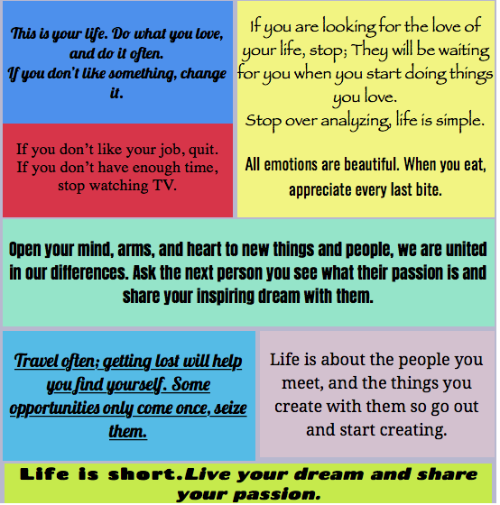
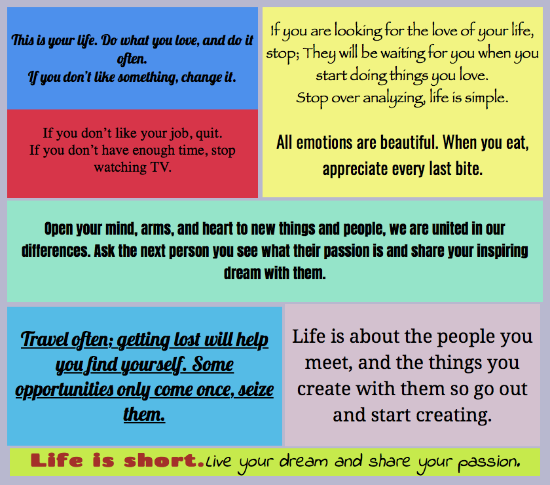
added css styles and pictures, completed the top bit of my page

diff --git a/index.html b/index.html
@@ -5,51 +5,64 @@
         <title>David Pinner | Web Developer Portfolio</title>
         <link rel="stylesheet" href="css/stylesheet.css">
         <link rel="stylesheet" href="css/normalize.css">
-        <link href="https://fonts.googleapis.com/css?family=Bitter|Uncial+Antiqua|Yanone+Kaffeesatz" rel="stylesheet">
+        <link href="https://fonts.googleapis.com/css?family=Dancing+Script:400,700|Exo:400,800|Orbitron:400,700|Permanent+Marker|Righteous" rel="stylesheet">
       </head>
       <body>
-        <div class="Container"> <!--main Div-->
-              <header>
-                <div class="main-heading">
-                      <h1>David Pinner</h1>
-                </div>
-                <div class="links">
-                      <nav>
-                            <ul>
-                                <li><a href="#about">About</a></li>
-                                <li><a href="#work">Work</a></li>
-                                <li><a href="#contact">Contact</a></li>
-                            </ul>
-                      </nav>
-                </div>
-              </header>
+        <div> <!--main Div-->
+            <header>
+                    <div class="links">
+                          <nav>
+                                <ul>
+                                    <li><a href="#portfolio">portfolio</a></li>
+                                    <li><a href="#work">Work</a></li>
+                                    <li><a href="#contact">Contact</a></li>
+                                </ul>
+                          </nav>
+                    </div>
+            </header>
+                    <div class="photo">
+<pre>
+  <span>Hi</span>,
+    I'm <strong>David Pinner</strong>,
+      A web Developer and designer with an eye for detail,
+        that loves clean & elegant code.</pre>
+                    </div>
               <main>
                     <article  class="about">
                           <div>
                                 <h2>A little Information about me.</h2>
-                                <p>I've made my home base in Lossiemouth, Moray, Scotland, with my two children and Wife. My journey into tech started with a desire to see how Web pages were built. As my intrest grew so did my thirst for knowledge, I was fascinated with how easily I could gain more insight and knowledge from round the Internet. I was hooked and wanted to learn how to build my own site to fit my own specific needs of myself and my family.</p>
+                                <p class="p1">I've made my home base in Lossiemouth, Moray, Scotland, with my two children and Wife. My journey into tech started with a desire to see how Web pages were built. As my intrest grew so did my thirst for knowledge, I was fascinated with how easily I could gain more insight and knowledge from round the Internet. I was hooked and wanted to learn how to build my own site to fit the specific needs of myself and my family.</p>
 
-                                <p>That curiosity then opened a door that could never be shut. When I learned how to build my first website, I realised I found something that gave me the freedom & versatility I was looking for in my work. Now I'm in the process of making a full switch to front-end development, where I can use my organisation skills and eye for detail to write clean, elegant code.</p>
+                                <p class="p2">That curiosity then opened a door that could never be shut. When I learned how to build my first website, I realised I found something that gave me the freedom & versatility I was looking for in my work. Now I'm in the process of making a full switch to front-end development, where I can use my organisation skills and eye for detail to write clean, elegant code.</p>
                           </div>
                     </article>
-                    <article class="portfolio">
+                    <article id="portfolio">
                             <div id="rogue">
-                                <img src="imgs/rogue.png" alt="rogue web site">
-                                  <h2>Rogue Pickings WebSite</h2>
-                                  <p>You can trust me to take a designer's PSD and quickly & accurately convert it into a webpage that is pixel-perfect match.</p>
+                                  <img src="imgs/rogue.png" alt="rogue web site">
+                                  <div class="text-rouge">
+                                        <h2>Rogue Pickings WebSite</h2>
+                                        <p>You can trust me to take a designer's PSD and quickly & accurately convert it into a webpage that is pixel-perfect match.</p>
+                                  </div>
+
                             </div>
                             <div id="holstee">
                                   <img src="imgs/holsten-project.png" alt="holsten manifesto">
-                                  <h2>Holstee Manifesto</h2>
-                                  <p>I pride myself on writing CSS that is easy to read and build on. I focus on keeping my CSS lean and fast to load, and I make it a habit to stay up to date on current best practices.</p>
+                                  <div class="text-holstee">
+                                        <h2>Holstee Manifesto</h2>
+                                        <p>I pride myself on writing CSS that is easy to read and build on. I focus on keeping my CSS lean and fast to load, and I make it a habit to stay up to date on current best practices.</p>
+                                  </div>
+
                             </div>
                             <div id="jubilee">
                                   <img src="imgs/jubilee.png" alt="jubilee austin" />
-                                  <h2>Jubilee Austen Project.</h2>
-                                  <p>My focus is writing clean, well-formatted, semantic HTML5 by hand to make sure that the content is easy to read, easy to collaborate, trouble-shoot and accessible.</p>
-                            </div>                            
+                                  <div class="text-jubilee">
+                                        <h2>Jubilee Austen Project.</h2>
+                                        <p>My focus is writing clean, well-formatted, semantic HTML5 by hand to make sure that the content is easy to read, easy to collaborate, trouble-shoot and accessible.</p>
+                                  </div>
+
+                            </div>
                     </article>
-                    <article class="work">
+                    <article id="work">
                             <div id="html">
                                   <img src="imgs/html-icon.png" alt="html icon" />
                                   <h2>Hand coded HTML.</h2>
@@ -66,7 +79,7 @@
                                   <p>You can trust me to take a designer's PSD and quickly & accurately convert it into a webpage that is pixel-perfect match.</p>
                             </div>
                     </article>
-                    <article class="contact">
+                    <article id="contact">
                               <div id="email">
                                     <h2>If you would like to know more</h2>
                                         <p><a href="mailto:davepin212@gmail.com">

diff --git a/css/stylesheet.css b/css/stylesheet.css
@@ -1,75 +1,130 @@
-/* main styles */
-
+/************************
+ Main body
+ ************************/
 body {
-      font-family: 'Bitter', serif;
-      background: #FFECCC;
-      max-width: 100%;
+      max-width: 1280px;
+      background: #E9E7E8;
+      font-family: 'Exo', sans-serif;
 }
 
-header {
-        background: #376996;
-        padding: 1px 5px 10px 0;
+/************************
+ styling
+ ************************/
+
+ /*--------- header --------------*/
+
+
+ .links {
+        max-width: 1280px;
         text-align: center;
+        font-family: 'Righteous', cursive;
+        text-transform: uppercase;
+        color: #A4B1BB;
+        font-size: 5px;
 
-}
+ }
 
-.main-heading {
-              font-family: 'Uncial Antiqua', cursive;
-              font-weight: normal;
-              font-size: 1.5em;
-              margin-top: 0.3125em;
-}
-
-.links {
-        line-height: 1.875em;
-}
-
-.links li {
-          background-color: #294D6E;
-          list-style: none;
-          margin: 0.625em;
-          padding: 0.325em;
-          font-size: 1.5em;
+ .links li {
+        list-style: none;
+        display: inline-block;
+        font-size: 15px;
+        padding-left: 15px;
 
 
-}
+ }
 
-.links a {
+ .links a {
         text-decoration: none;
+        color: #A4B1BB;
+
+ }
+
+
+/*-------- main body ---------*/
+
+.photo {
+      clear: both;
+      margin:0;
+      padding-top: 220px;
+      background-image: url(../Imgs/coast-540123_1280.jpg);
+      height: 500px;
+      background-position: center;
+      background-size: cover;
+
+}
+
+.photo pre {
+        clear: both;
+        text-align: left;
+        font-size: 30px;
+        hight: 500px;
+        line-height: 50px;
+        margin: 0;
+
+}
+
+.photo span {
+          font-weight: bolder;
+}
+
+
+.photo strong {
+            color: #EB8258;
+}
+
+
+
+/*------- about ------------*/
+
+.about {
+  clear: both;
+
 }
 
 .about h2 {
-          font-size: 1.5em;
-          line-height: 1em;
-          clear: both;
-          font-family: 'Yanone Kaffeesatz', sans-serif;
-          margin-left: 60px;
+          text-align: center;
+          text-transform: uppercase;
+          font-family: 'Orbitron', sans-serif;
 }
 
-.about p {
-        margin: 20px 20px 20px 60px;
-        text-align: justify;
-        font-size: 16px;
-
+.p1,
+.p2 {
+    line-height: 25px;
+    padding: 5px;
+    text-align: justify;
 }
 
-.work {
-      text-align: center;
+.p1 {
+    max-width: 500px;
+    padding-left: 50px;
 }
 
-.work p {
-        margin: 0 60px;
+.p2 {
+    max-width: 500px;
+    padding-left: 100px;
 }
 
-#html p {
-        margin-bottom: 20px;
-        padding-top: 20px;
+
+/*------- portfolio ------------*/
+
+.portfolio h2 {
+            font-family: 'Orbitron', sans-serif;
 }
 
-#css p {
-        margin-bottom: 20px;
+
+/*------- skils ------------*/
+
+#work {
+  clear: both;
 }
 
-#photoshop  p {
-              margin-bottom: 20px;
+
+
+ /************************
+  positioning
+  ************************/
+
+.p1, .p2 {
+        float: left;
+        margin: 2.5px;
 }
